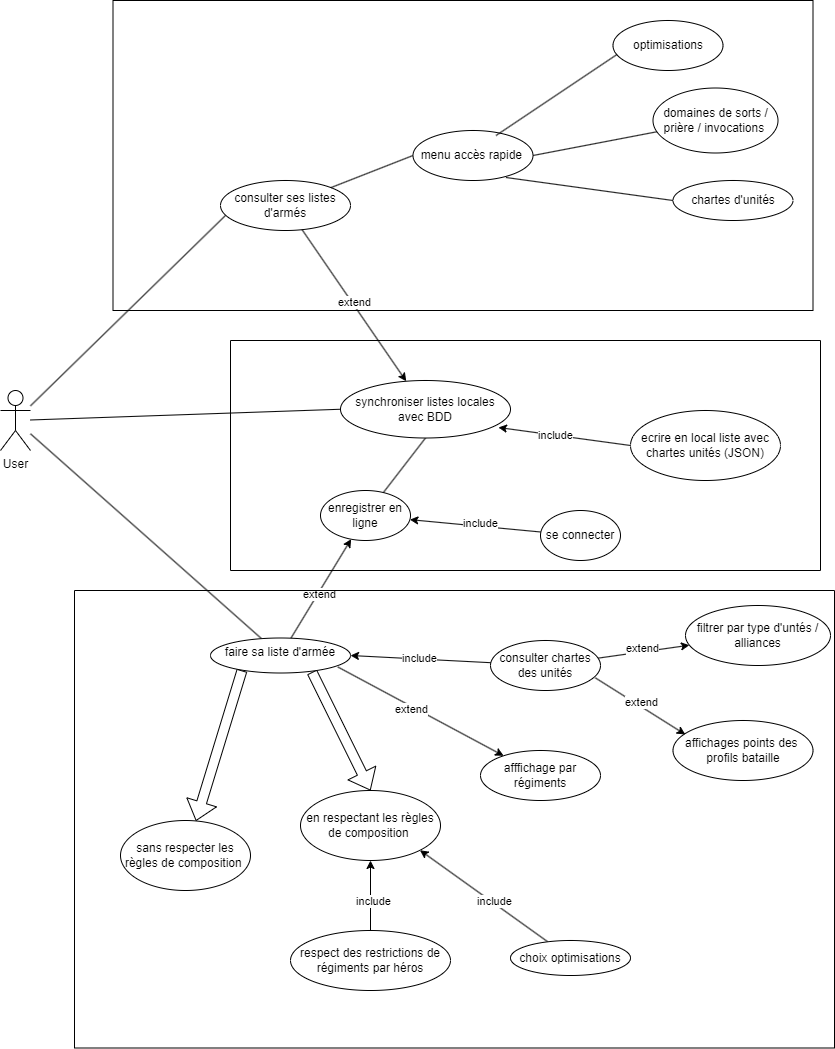
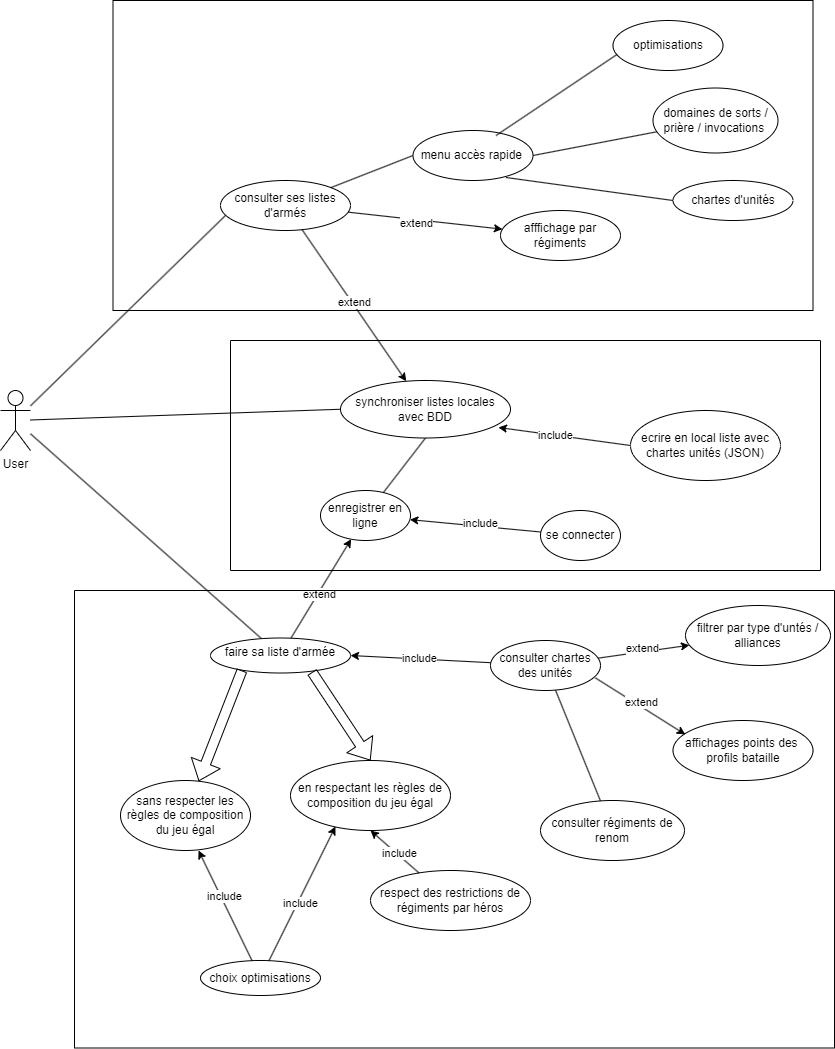
userStorie faire sa liste d'armée + modifs useCase

diff --git a/docs/userStories/faireListeArmee.md b/docs/userStories/faireListeArmee.md
@@ -1,0 +1,31 @@
+# Faire sa Liste d'armée.
+
+En tant qu'utilisateur, je souhaite pouvoir créer mes listes d'armées, qu'elles respectent les règles du jeu égale ou non, et ayant la possibilitée de les enregistrer en ligne. Pour créer mes listes d'armée, je peux accéder aux chartes d'unités des différentes factions, affichés de manière filtrés ou non pour plus de facilité. 
+
+## User Stories:
+
+1. Faire sa liste d'armée: 
+    - User Story:*En tant qu'utilisateur connecté ou non, je peux créer mes listes d'armées. Pour cela je peux décider de respecter ou non les règles du jeu égal.* 
+    - Critères d'acceptation:
+        - Je peux ajouter des unités parmis une liste.
+        - Je peux dupliquer mes listes. 
+        - Une checkbox me permet de respecter ou non les règles de jeu égal. Si la checkbox est activé et que ma liste ne respecte pas les règles, je ne peux pas enregistrer ma liste et j'ai un message d'alerte.
+        - Si je respecte les règles de jeu égal, mes régiments doivent suivre les restrictions de régiments par héros (ex: *sentinelle des forêts 0-1*).
+        - Les listes d'armées peuvent contenir des unités auxillaires (si ma liste ne repecte pas les règles de jeu égal et que je ne veux pas suivre la construction en régiments, je peux mettre toutes mes unités en auxilliaire).
+        - Je peux choisir des optimisations pour mes listes d'armées (si je resecte les règles je suis limité).
+        - Une liste doit respecter une limite de points.
+
+2. Enregistrer en ligne ma liste d'armée.
+    - User Story: *En tant qu'utilisateur connecté, je peux enregistrer en ligne mes listes d'armées, les modifier ou les supprimer.*
+    - Critères d'acceptation:
+        - Sur mon profil j'ai accès à la liste des compositions d'armées. 
+        - Un bouton permet d'enregisrer en local (JSON ?) mes les listes presentes en ligne (BDD).
+        - Les listes peuvent êtres modifiés ou supprimés, ce qui affecte automatiquement le dupplica (si présent) en local.
+
+3. Modifier, ajouter à ma liste. 
+    - User Story: *En tant qu'utilisateur connecté ou non, je peux ajouter des chartes ou des optimisations à ma liste.*
+    - Critères d'acceptation: 
+        - Un bouton permet d'ajouter une entrée (charte d'unité, optimisation, trait de régiment) à ma liste. 
+        - Je peux filtrer les chartes par alliances, par types d'unités. 
+        - Les couts en points des profils de batailles sont affichés, et je peux trier par coût en points. 
+        - Je peux également ajouter des régiments de renom, un bouton permet d'accéder à la liste des régiments de renoms. 

diff --git a/docs/userStories/consulterListArmee.md b/docs/userStories/consulterListArmee.md
@@ -27,4 +27,5 @@ En tant qu'utilisateur, je souhaite accéder facilement à mes listes d'armées,
         - Les optimisations sont affichés individuellement et on peut allé d'une optimisations à l'autre avec un défilement par la droite ou la gauche.
         - Les domaines sont afffichés sous la forme de liste dont chaque élément (sort, prière, etc) est ciquable pour accéder aux informations.
         - Les chartes sont affichés sous la forme de liste, on peut cliquer sur une charte pour accéder à ses informations.
-        - Chaque chartes contient les données de l'unité en question ainsi qu'une image de l'unité. 
+        - Chaque charte contient les données de l'unité en question ainsi qu'une image de l'unité. 
+        - Un bouton permet d'afficher les chartes par régiment, ou non. 
